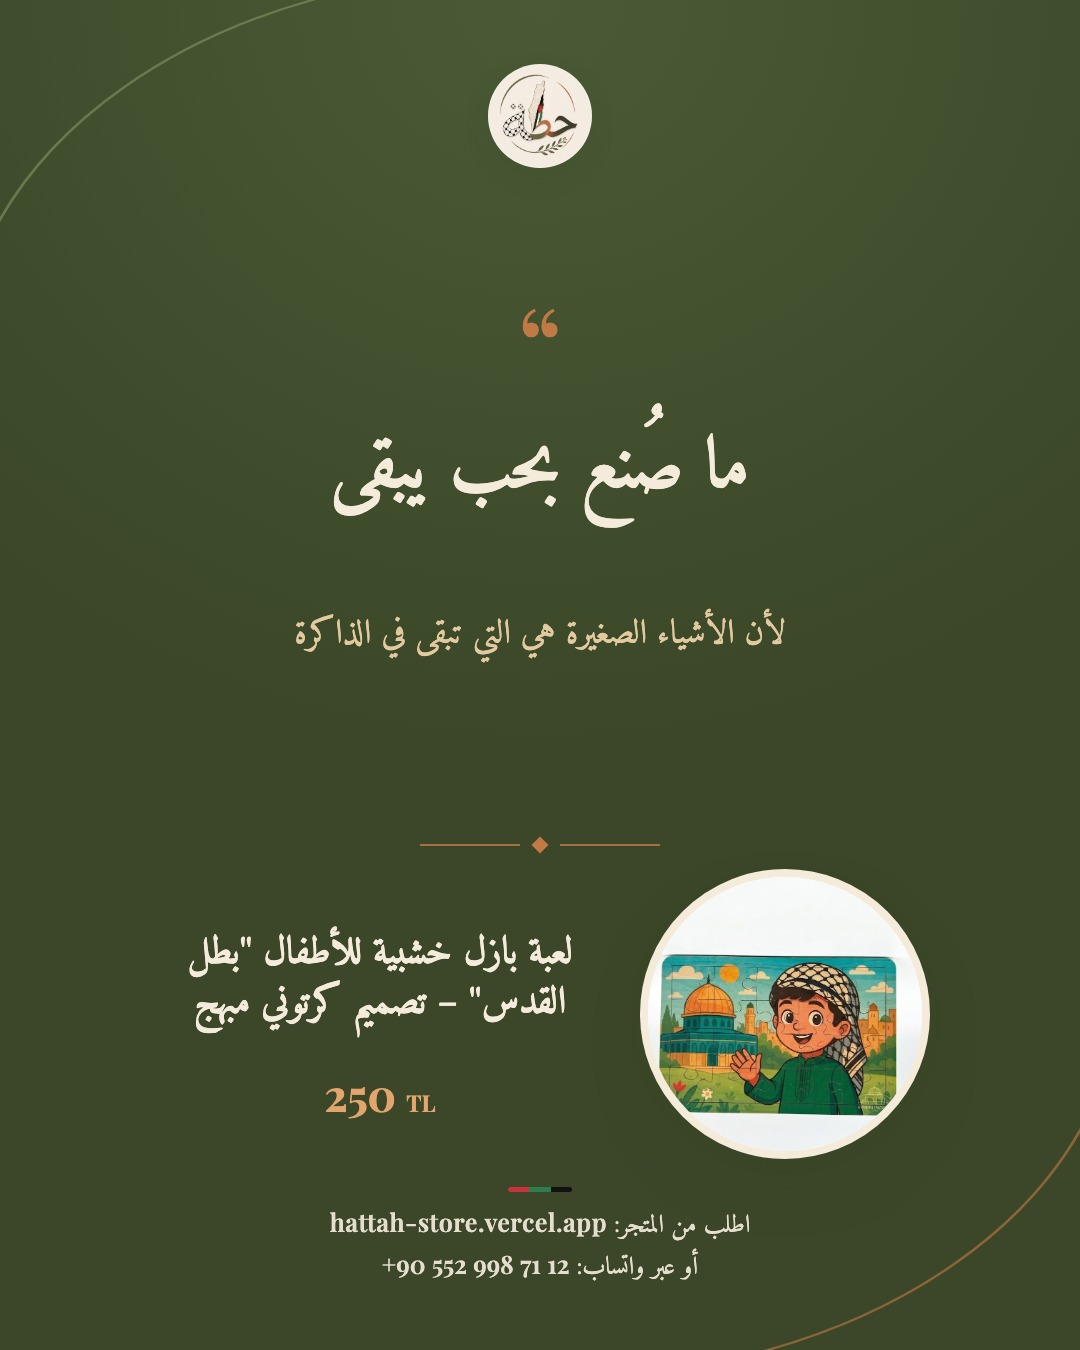
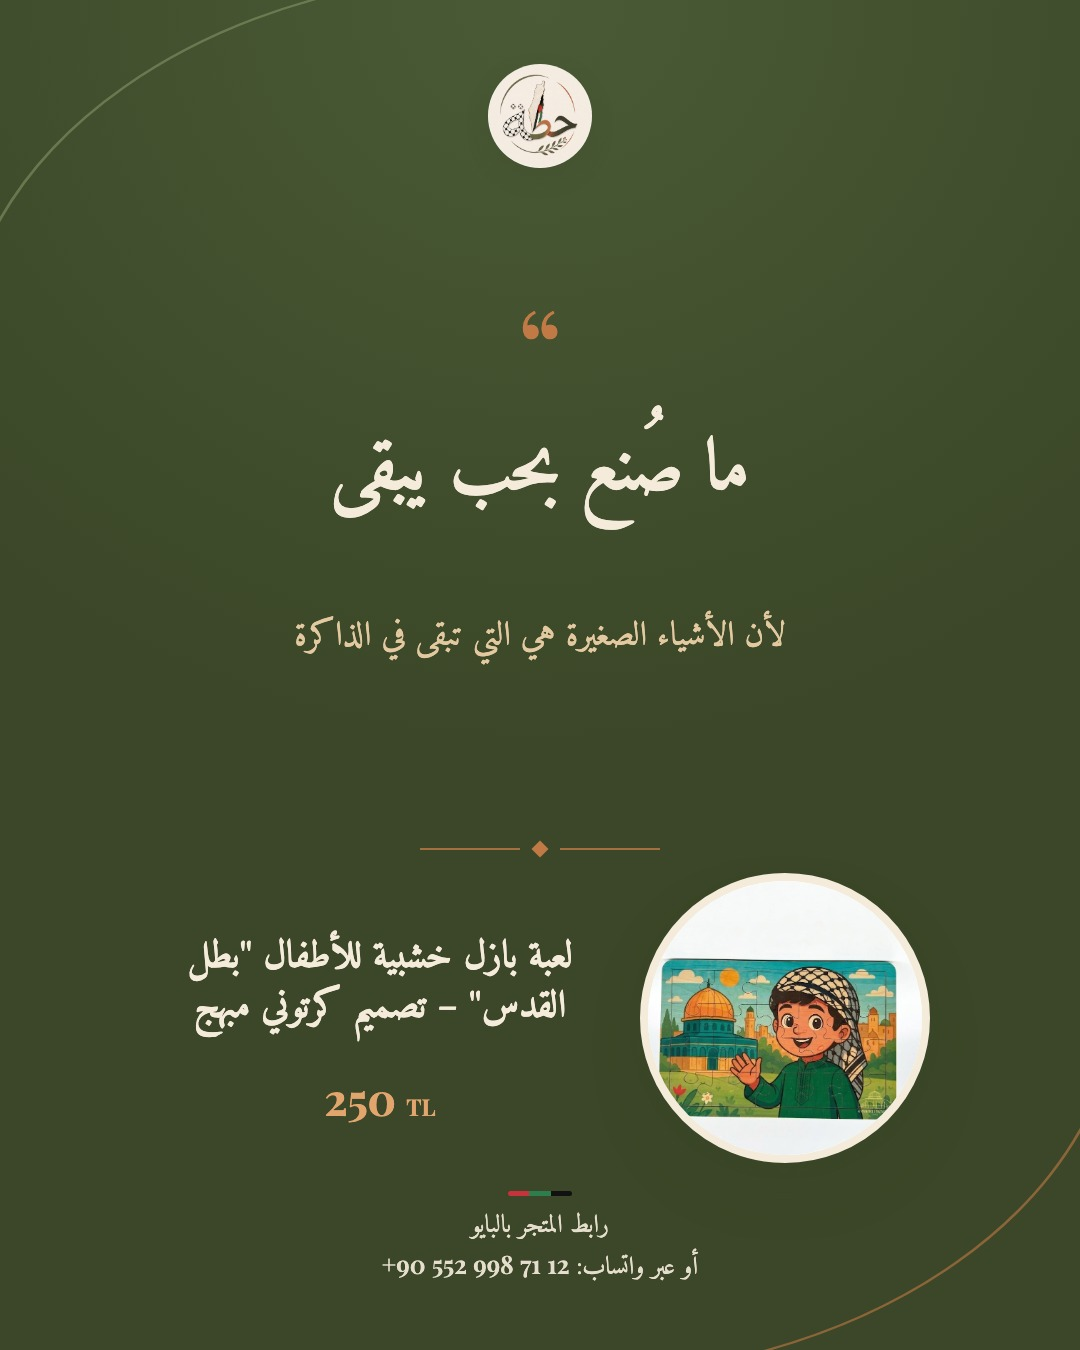
Social: replace store URL with bio-link CTA pool (unique per day) in captions and images

diff --git a/automation/src/captions.ts b/automation/src/captions.ts
@@ -2,13 +2,34 @@ import OpenAI from "openai";
 import { z } from "zod";
 import type { Angle, DesignText, ProductRecord, SocialSettings } from "./types.js";
 import { effectivePrice } from "./products.js";
-import { siteDisplay, whatsappDisplay } from "./render/render.js";
+import { whatsappDisplay } from "./render/render.js";
 import { isDryRun, need } from "./env.js";
 import { log } from "./time.js";
 
 const wordCount = (v: string) => v.trim().split(/\s+/).filter(Boolean).length;
 export const normalizeText = (v: string) =>
   v.replace(/[\u064B-\u0652\u0640]/g, "").replace(/[^\p{L}\p{N}\s]/gu, "").replace(/\s+/g, " ").trim().toLowerCase();
+
+/** Closing lines for feed captions. No store URL — the link lives in the bio. {WA} = WhatsApp number. */
+export const CTA_POOL = [
+  "رابط المتجر بالبايو 🔗 أو اطلب عبر واتساب: {WA}",
+  "تصفّح المتجر من الرابط بالبايو 🛍 أو راسلنا على واتساب: {WA}",
+  "كل التفاصيل برابط البايو 🔗 وللطلب المباشر واتساب: {WA}",
+  "المتجر كامل بالرابط اللي بالبايو ✨ أو اطلب مباشرة عبر واتساب: {WA}",
+  "اطلبها من رابط البايو 🔗 أو كلّمنا على واتساب: {WA}",
+  "رابط المتجر بالبايو 🛒 وإذا بتحب نرتّب طلبك عالواتساب: {WA}",
+  "زورونا من رابط البايو 🔗 أو أرسلوا لنا على واتساب: {WA}",
+  "شوفوا المجموعة كاملة من رابط البايو 🛍 أو اطلبوا عبر واتساب: {WA}",
+  "الرابط بالبايو يوصلك للمتجر 🔗 وللاستفسار والطلب واتساب: {WA}",
+  "تلاقوها بالمتجر من رابط البايو ✨ أو اطلبوا مباشرة عبر واتساب: {WA}",
+];
+export const renderCta = (i: number) => CTA_POOL[i % CTA_POOL.length].replace("{WA}", whatsappDisplay());
+
+/** Index of the pool phrasing used inside an existing caption (or -1). */
+export function ctaIndexOf(caption: string | null): number {
+  if (!caption) return -1;
+  return CTA_POOL.findIndex((c) => caption.includes(c.split("{WA}")[0]));
+}
 
 export const BODY_MIN = 600;
 export const BODY_MAX = 1000;
@@ -190,9 +211,9 @@ export interface CaptionResult {
   design: Required<DesignText>;
 }
 
-export function assembleCaption(c: CaptionJson, settings: SocialSettings): string {
+export function assembleCaption(c: CaptionJson, settings: SocialSettings, ctaIndex = 0): string {
   const body = captionBody(c, settings.caption_languages.includes("tr"));
-  const cta = `اطلب من المتجر: ${siteDisplay()}\nأو عبر واتساب: ${whatsappDisplay()}`;
+  const cta = renderCta(ctaIndex);
 
   const seen = new Set<string>();
   const tags: string[] = [];
@@ -220,6 +241,7 @@ export async function generateCaption(
   angle: Angle,
   settings: SocialSettings,
   recentTexts: string[] = [],
+  ctaIndex = 0,
 ): Promise<CaptionResult> {
   const nameTokens = normalizeText(p.name_ar).split(" ").filter((t) => t.length > 2);
   /** Rules the model was told but may break: prices/digits in text, or a subline that just restates the product name. */
@@ -263,5 +285,5 @@ export async function generateCaption(
       if (attempt === 3) throw new Error(broken ?? "model kept repeating a headline used in the last 30 days");
     }
   }
-  return { caption: assembleCaption(json, settings), design: { headline: json.image_headline.trim(), subline: json.image_subline.trim() } };
+  return { caption: assembleCaption(json, settings, ctaIndex), design: { headline: json.image_headline.trim(), subline: json.image_subline.trim() } };
 }

diff --git a/automation/src/pipeline.ts b/automation/src/pipeline.ts
@@ -1,6 +1,6 @@
 import type { SupabaseClient } from "@supabase/supabase-js";
 import { Renderer } from "./render/render.js";
-import { generateCaption } from "./captions.js";
+import { CTA_POOL, ctaIndexOf, generateCaption } from "./captions.js";
 import { SOCIAL_BUCKET } from "./db.js";
 import { effectivePrice, sortedImages } from "./products.js";
 import { ANGLES, type Angle, type ProductRecord, type SocialPostRow, type SocialSettings } from "./types.js";
@@ -49,6 +49,32 @@ export async function loadRecentTexts(sb: SupabaseClient, excludePostId?: string
     }
   }
   return out;
+}
+
+/** In-process reservations so parallel jobs of one run never pick the same phrasing. */
+const reservedCtas = new Map<string, Set<number>>();
+
+/** A CTA phrasing not yet used by another post on the same Istanbul day (never the same sentence twice in a day). */
+export async function pickCtaIndex(sb: SupabaseClient, scheduledAt: string | null, excludePostId: string): Promise<number> {
+  const at = new Date(scheduledAt ?? Date.now());
+  const day = new Intl.DateTimeFormat("en-CA", { timeZone: "Europe/Istanbul" }).format(at);
+  const start = new Date(`${day}T00:00:00+03:00`);
+  const end = new Date(start.getTime() + 86400e3);
+  const { data } = await sb
+    .from("social_posts")
+    .select("id, caption_full")
+    .gte("scheduled_at", start.toISOString())
+    .lt("scheduled_at", end.toISOString())
+    .not("caption_full", "is", null);
+  const used = new Set((data ?? []).filter((r) => r.id !== excludePostId).map((r) => ctaIndexOf(r.caption_full)));
+  const reserved = reservedCtas.get(day) ?? new Set<number>();
+  reservedCtas.set(day, reserved);
+  const all = CTA_POOL.map((_, i) => i);
+  const free = all.filter((i) => !used.has(i) && !reserved.has(i));
+  const pool = free.length ? free : all.filter((i) => !reserved.has(i)).length ? all.filter((i) => !reserved.has(i)) : all;
+  const pick = pool[Math.floor(Math.random() * pool.length)];
+  reserved.add(pick);
+  return pick;
 }
 
 export async function loadProduct(sb: SupabaseClient, id: string): Promise<ProductRecord> {
@@ -179,7 +205,8 @@ export async function buildPostAssets(
   // generating it only if the post has none yet.
   const needText = what.image && !(design.headline && design.subline);
   if (what.caption || needText) {
-    const res = await generateCaption(product, categoryAr, post.angle, settings, await loadRecentTexts(sb, post.id, product.id));
+    const ctaIndex = await pickCtaIndex(sb, (post as { scheduled_at?: string }).scheduled_at ?? null, post.id);
+    const res = await generateCaption(product, categoryAr, post.angle, settings, await loadRecentTexts(sb, post.id, product.id), ctaIndex);
     design = res.design;
     out.design = design;
     if (post.post_type === "feed" && what.caption) out.caption_full = res.caption;

diff --git a/automation/src/render/templates.ts b/automation/src/render/templates.ts
@@ -15,7 +15,6 @@ export interface TemplateInput {
   logo: string;
   fontCss: string;
   whatsappDisplay: string;
-  siteDisplay: string;
   text: Required<DesignText>;
 }
 
@@ -104,7 +103,7 @@ function photoBox(
 }
 
 const waLine = (t: TemplateInput) =>
-  `<div class="cta"><div>اطلب من المتجر: <b>${esc(t.siteDisplay)}</b></div><div>أو عبر واتساب: <b>${esc(t.whatsappDisplay)}</b></div></div>`;
+  `<div class="cta"><div>رابط المتجر بالبايو</div><div>أو عبر واتساب: <b>${esc(t.whatsappDisplay)}</b></div></div>`;
 
 const priceBlock = (t: TemplateInput, size: number, color: string) => {
   const old = t.oldPrice

diff --git a/automation/src/render/render.ts b/automation/src/render/render.ts
@@ -114,7 +114,6 @@ export class Renderer {
       logo: logoDataUri(),
       fontCss: fontCss(),
       whatsappDisplay: whatsappDisplay(),
-      siteDisplay: siteDisplay(),
       text: req.text,
     };
     const size = SIZES[req.type];
